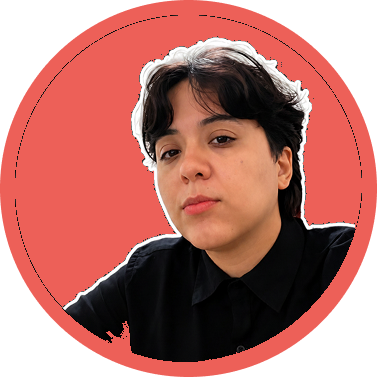
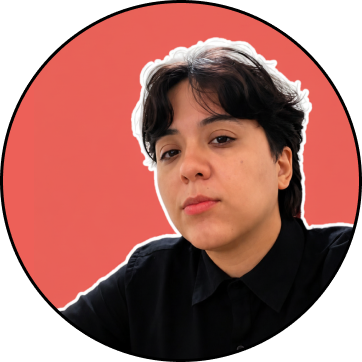
Deixa a moldura da foto de perfil circular

diff --git a/frontend/src/components/sections/Hero.tsx b/frontend/src/components/sections/Hero.tsx
@@ -18,7 +18,7 @@ export function Hero({ profile }: { profile: Profile }) {
           <img
             src={profile.photoUrl}
             alt={profile.name}
-            className="w-64 rounded-2xl border-2 border-ink object-cover shadow-brutal-lg dark:border-white/80"
+            className="w-64 rounded-full border-2 border-ink object-cover shadow-brutal-lg dark:border-white/80"
           />
         </div>
 
